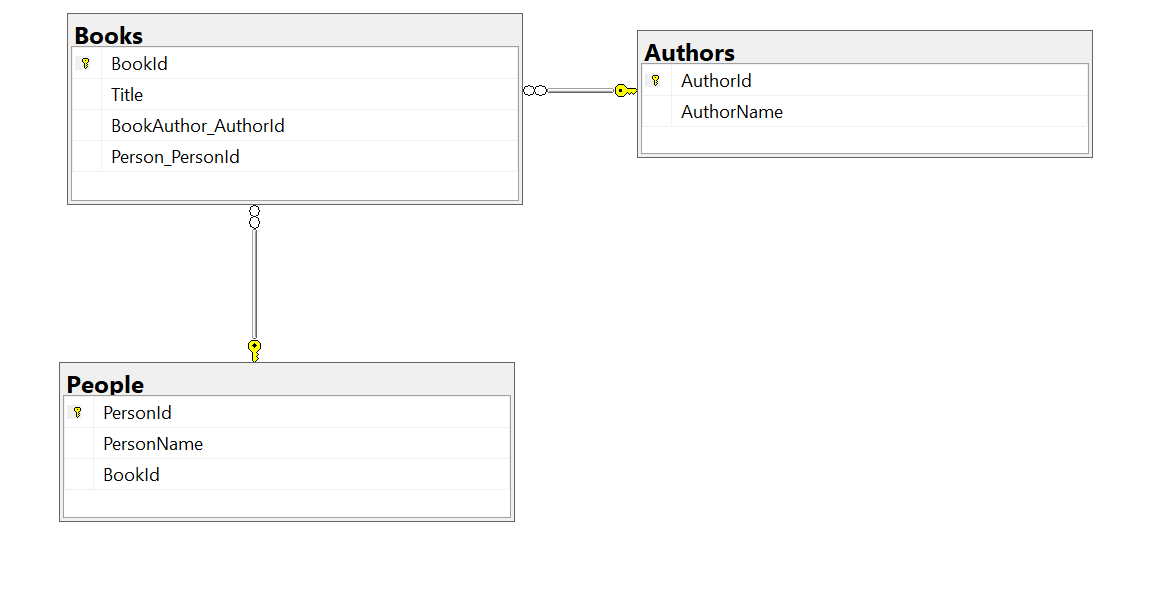
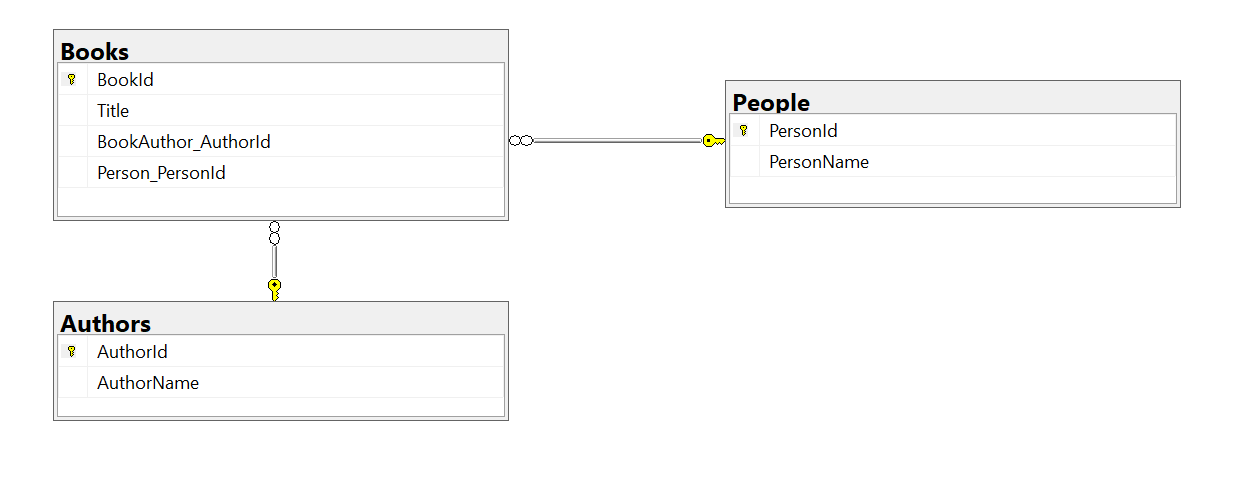
Changed the Persons Table and hence changed the Schema

diff --git a/LibraryDB/Migrations/202312121129015_LibraryDB1.Designer.cs b/LibraryDB/Migrations/202312121129015_LibraryDB1.Designer.cs
@@ -1,0 +1,29 @@
+// <auto-generated />
+namespace EF_Exercise.Migrations
+{
+    using System.CodeDom.Compiler;
+    using System.Data.Entity.Migrations;
+    using System.Data.Entity.Migrations.Infrastructure;
+    using System.Resources;
+    
+    [GeneratedCode("EntityFramework.Migrations", "6.4.4")]
+    public sealed partial class LibraryDB1 : IMigrationMetadata
+    {
+        private readonly ResourceManager Resources = new ResourceManager(typeof(LibraryDB1));
+        
+        string IMigrationMetadata.Id
+        {
+            get { return "202312121129015_LibraryDB1"; }
+        }
+        
+        string IMigrationMetadata.Source
+        {
+            get { return null; }
+        }
+        
+        string IMigrationMetadata.Target
+        {
+            get { return Resources.GetString("Target"); }
+        }
+    }
+}

diff --git a/LibraryDB/Migrations/202312130536224_LibraryDB2.Designer.cs b/LibraryDB/Migrations/202312130536224_LibraryDB2.Designer.cs
@@ -1,0 +1,29 @@
+// <auto-generated />
+namespace EF_Exercise.Migrations
+{
+    using System.CodeDom.Compiler;
+    using System.Data.Entity.Migrations;
+    using System.Data.Entity.Migrations.Infrastructure;
+    using System.Resources;
+    
+    [GeneratedCode("EntityFramework.Migrations", "6.4.4")]
+    public sealed partial class LibraryDB2 : IMigrationMetadata
+    {
+        private readonly ResourceManager Resources = new ResourceManager(typeof(LibraryDB2));
+        
+        string IMigrationMetadata.Id
+        {
+            get { return "202312130536224_LibraryDB2"; }
+        }
+        
+        string IMigrationMetadata.Source
+        {
+            get { return null; }
+        }
+        
+        string IMigrationMetadata.Target
+        {
+            get { return Resources.GetString("Target"); }
+        }
+    }
+}

diff --git a/LibraryDB/Migrations/202312121129015_LibraryDB1.cs b/LibraryDB/Migrations/202312121129015_LibraryDB1.cs
@@ -1,0 +1,18 @@
+namespace EF_Exercise.Migrations
+{
+    using System;
+    using System.Data.Entity.Migrations;
+    
+    public partial class LibraryDB1 : DbMigration
+    {
+        public override void Up()
+        {
+            AddColumn("dbo.People", "BookId", c => c.Int(nullable: false));
+        }
+        
+        public override void Down()
+        {
+            DropColumn("dbo.People", "BookId");
+        }
+    }
+}

diff --git a/LibraryDB/Migrations/202312130536224_LibraryDB2.cs b/LibraryDB/Migrations/202312130536224_LibraryDB2.cs
@@ -1,0 +1,18 @@
+namespace EF_Exercise.Migrations
+{
+    using System;
+    using System.Data.Entity.Migrations;
+    
+    public partial class LibraryDB2 : DbMigration
+    {
+        public override void Up()
+        {
+            DropColumn("dbo.People", "BookId");
+        }
+        
+        public override void Down()
+        {
+            AddColumn("dbo.People", "BookId", c => c.Int(nullable: false));
+        }
+    }
+}

diff --git a/LibraryDB/Person.cs b/LibraryDB/Person.cs
@@ -10,7 +10,5 @@ namespace EF_Exercise
     {
         public int PersonId { get; set; }
         public string PersonName { get; set; }
-        public int BookId { get; set; }
-        public virtual ICollection<Book> BooksIssued { get; set; }
     }
 }
